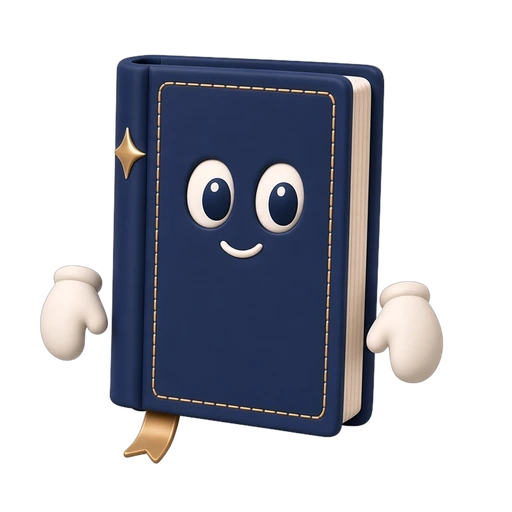
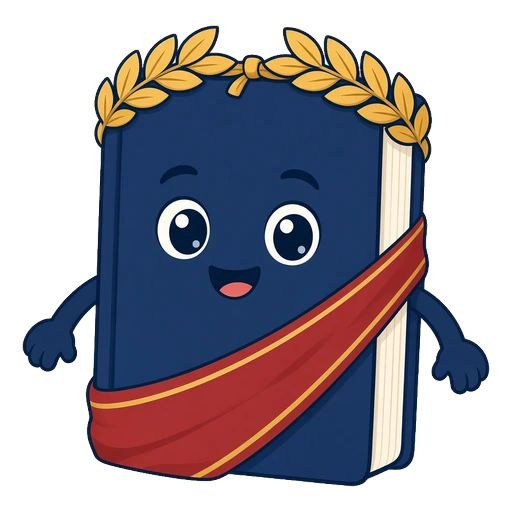
Swap the book mascot for the laurel-and-toga Sapi.
The hero and floater poses use a transparent cutout of the new artwork. Favicon and Open Graph stay the letter mark. loadBriefing is async again so the landing script parses and the floater can appear.

diff --git a/docs/landing.js b/docs/landing.js
@@ -167,11 +167,11 @@ async function berlinTodayIso() {
   }).format(new Date());
 }
 
-function freshenSampleDate(root, locale) {
+async function freshenSampleDate(root, locale) {
   if (!root || root.dataset.briefingState === "live") return;
   const time = root.querySelector("[data-briefing-date]");
   if (!time) return;
-  const today = berlinTodayIso();
+  const today = await berlinTodayIso();
   const iso = (time.dateTime || "").slice(0, 10);
   if (!/^\d{4}-\d{2}-\d{2}$/.test(today) || !/^\d{4}-\d{2}-\d{2}$/.test(iso)) return;
   if (iso >= today) return;
@@ -180,13 +180,13 @@ function freshenSampleDate(root, locale) {
   if (label) time.textContent = label;
 }
 
-function loadBriefing() {
+async function loadBriefing() {
   const root = document.querySelector("[data-briefing]");
   if (!root) return;
   const list = root.querySelector("[data-briefing-list]");
   if (!list) return;
   const locale = root.dataset.locale === "de" ? "de" : "en";
-  freshenSampleDate(root, locale);
+  await freshenSampleDate(root, locale);
   try {
     const response = await fetch(AILA_BRIEFING_URL, {
       credentials: "omit",
